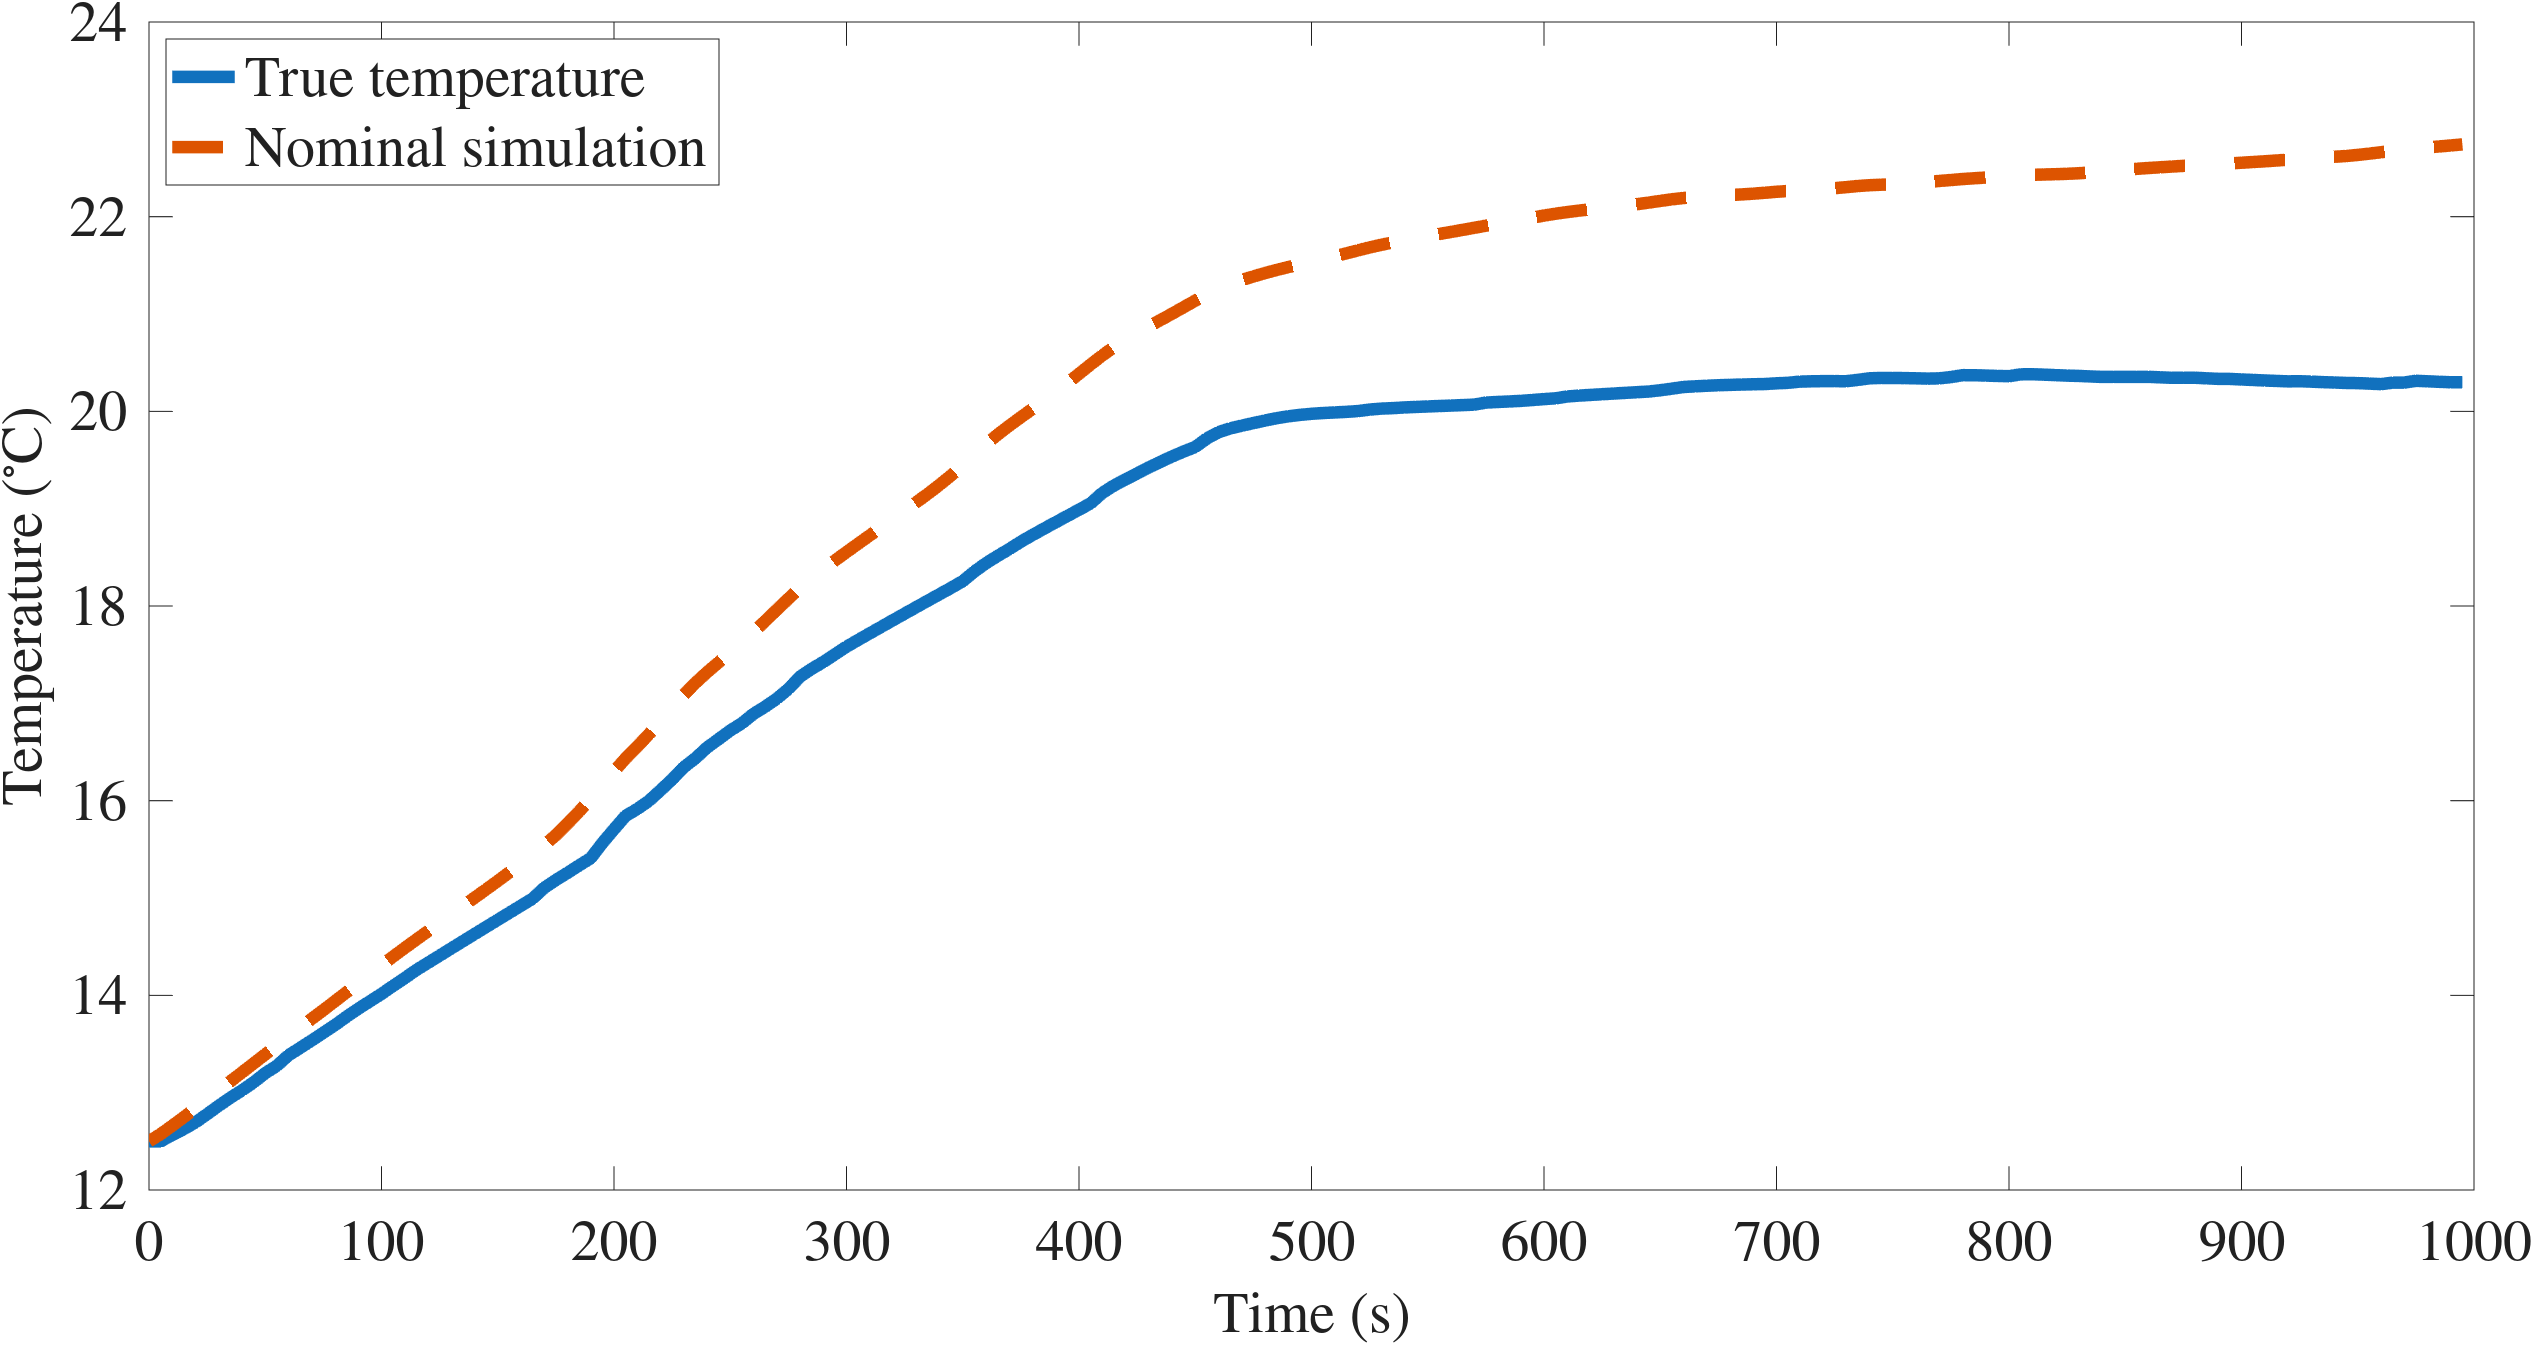
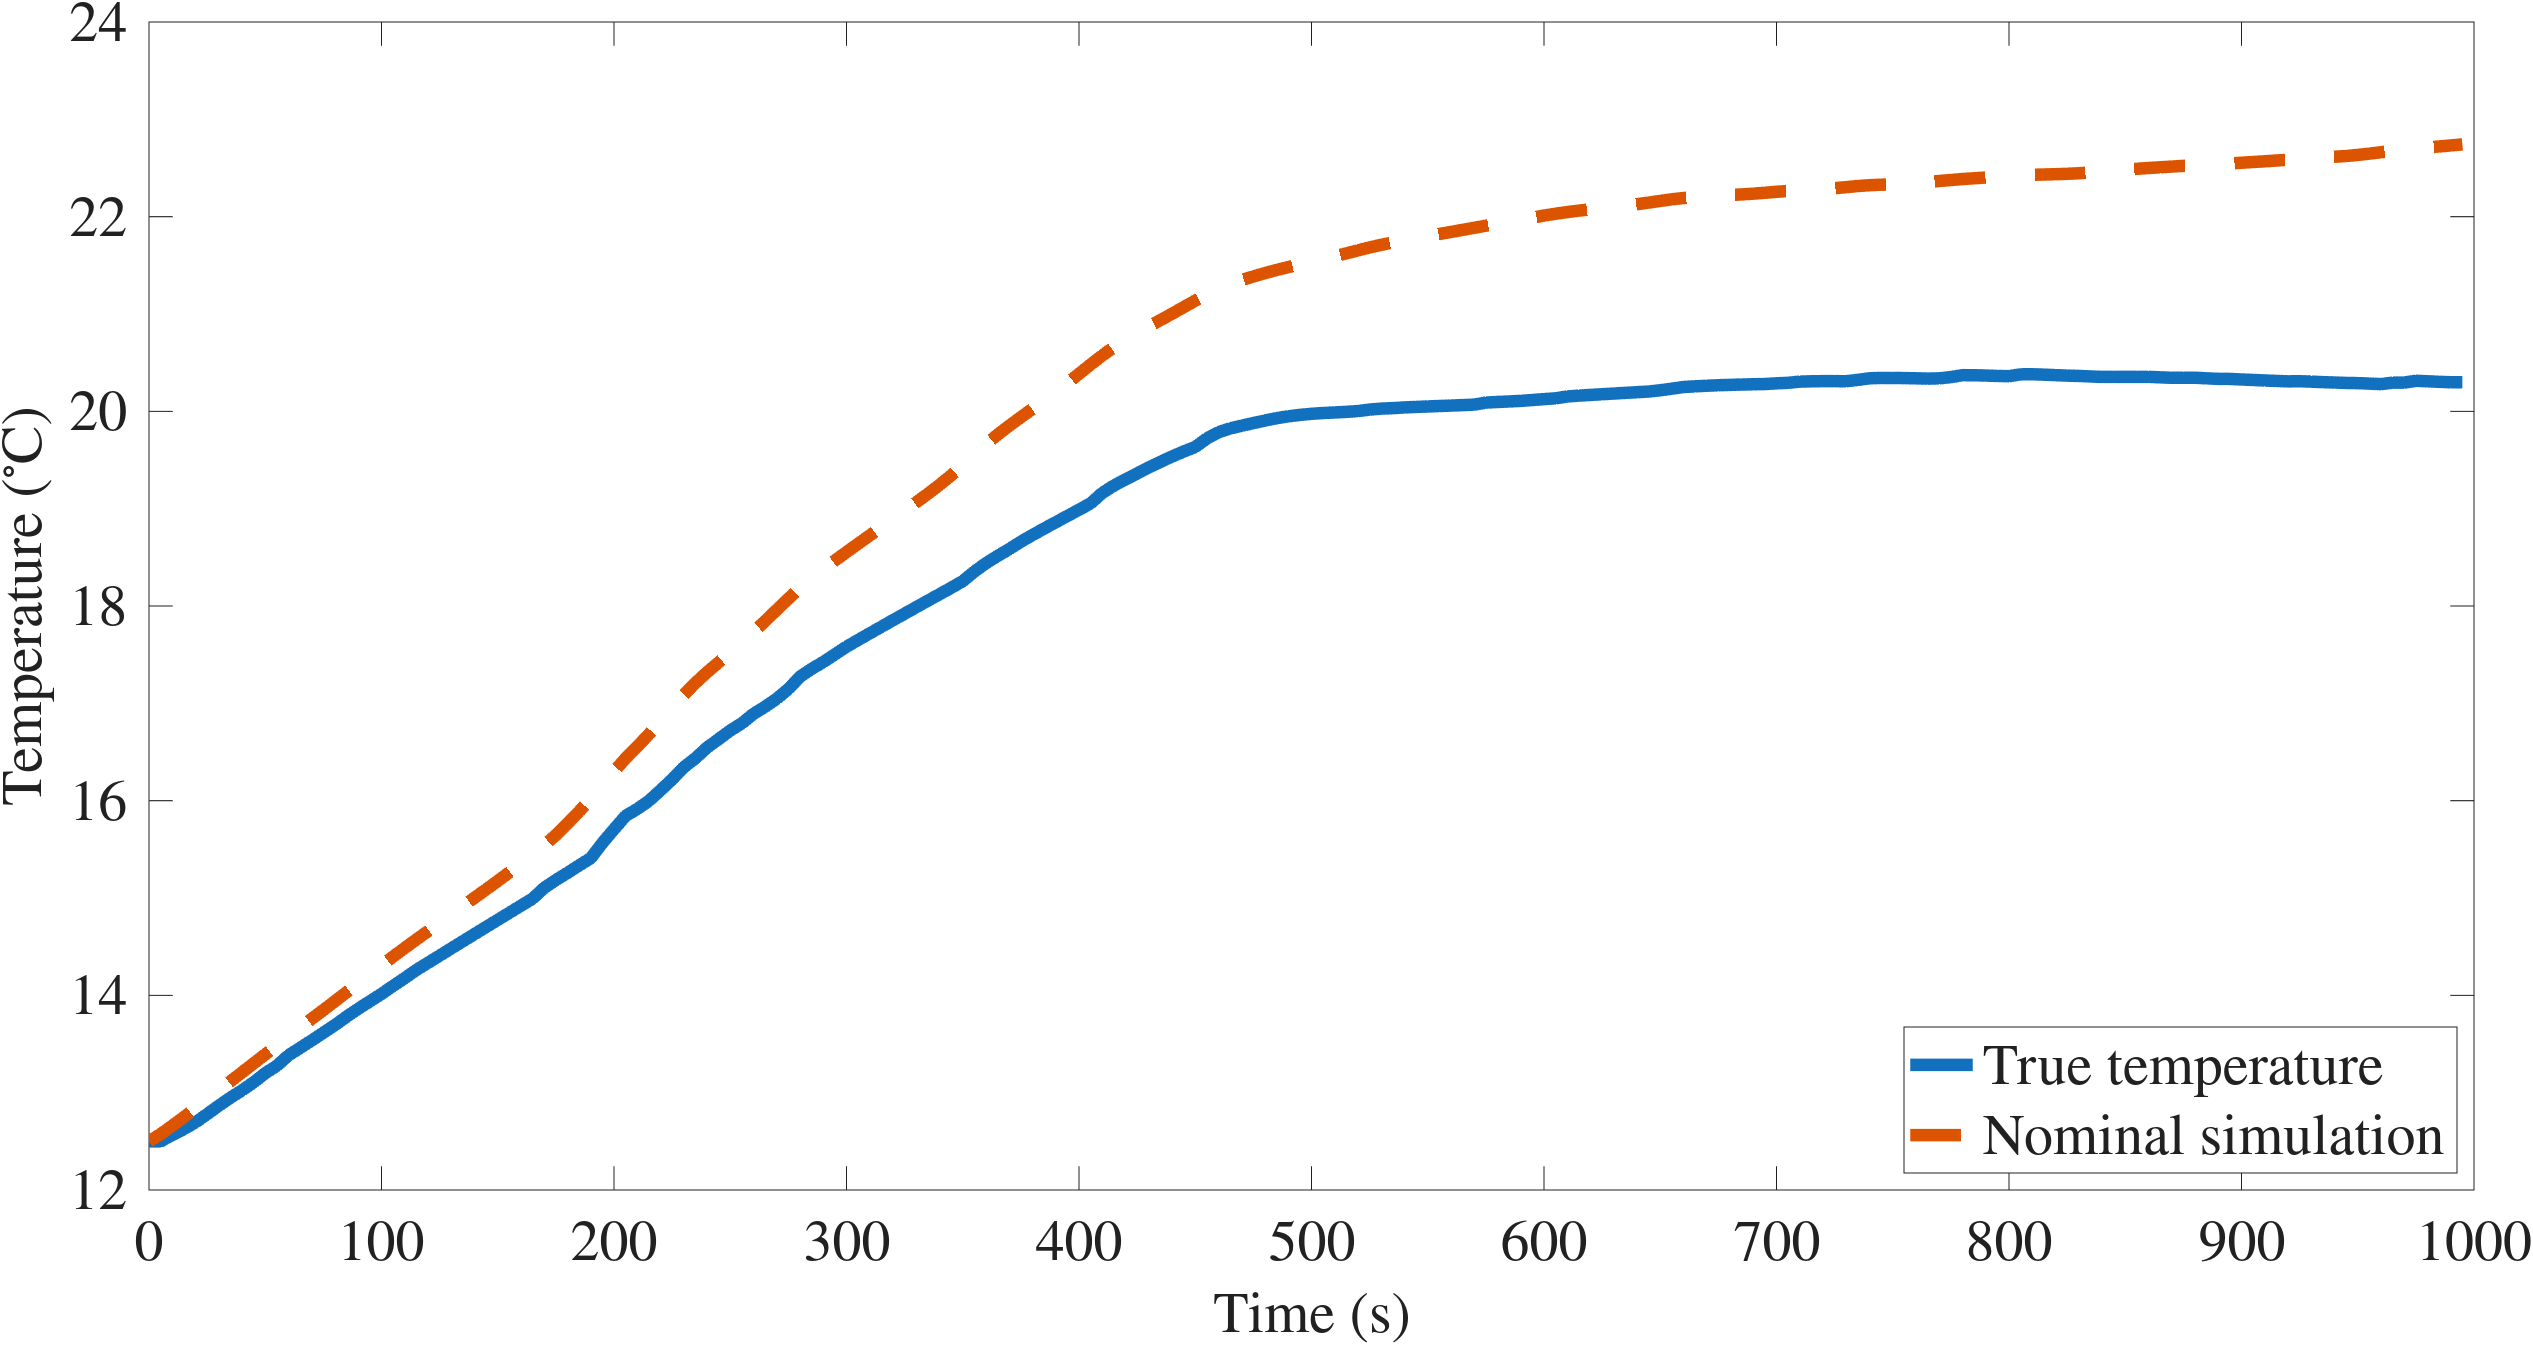
plot for presentation

Changed region(s): [[0.0624, 0.0312, 0.2807, 0.1249], [0.7485, 0.7807, 0.9668, 0.8743]]

diff --git a/Trajectory_Simulation/plot_simulation_results.m b/Trajectory_Simulation/plot_simulation_results.m
@@ -39,7 +39,7 @@ ylabel('Temperature ($^\circ$C)', 'Interpreter', 'latex')
 %xl.LabelVerticalAlignment = 'bottom';
 %xlim([20 80])
 %ylim([0.7 1.15])
-legend('True temperature', 'Nominal simulation', 'Location','northwest')
+legend('True temperature', 'Nominal simulation', 'Location','southeast')
 %ylabel('Height Tank 1 (m)');
 %xlabel('Time (s)');
 set(findall(gcf, '-property', 'FontSize'), 'FontSize', 28);
